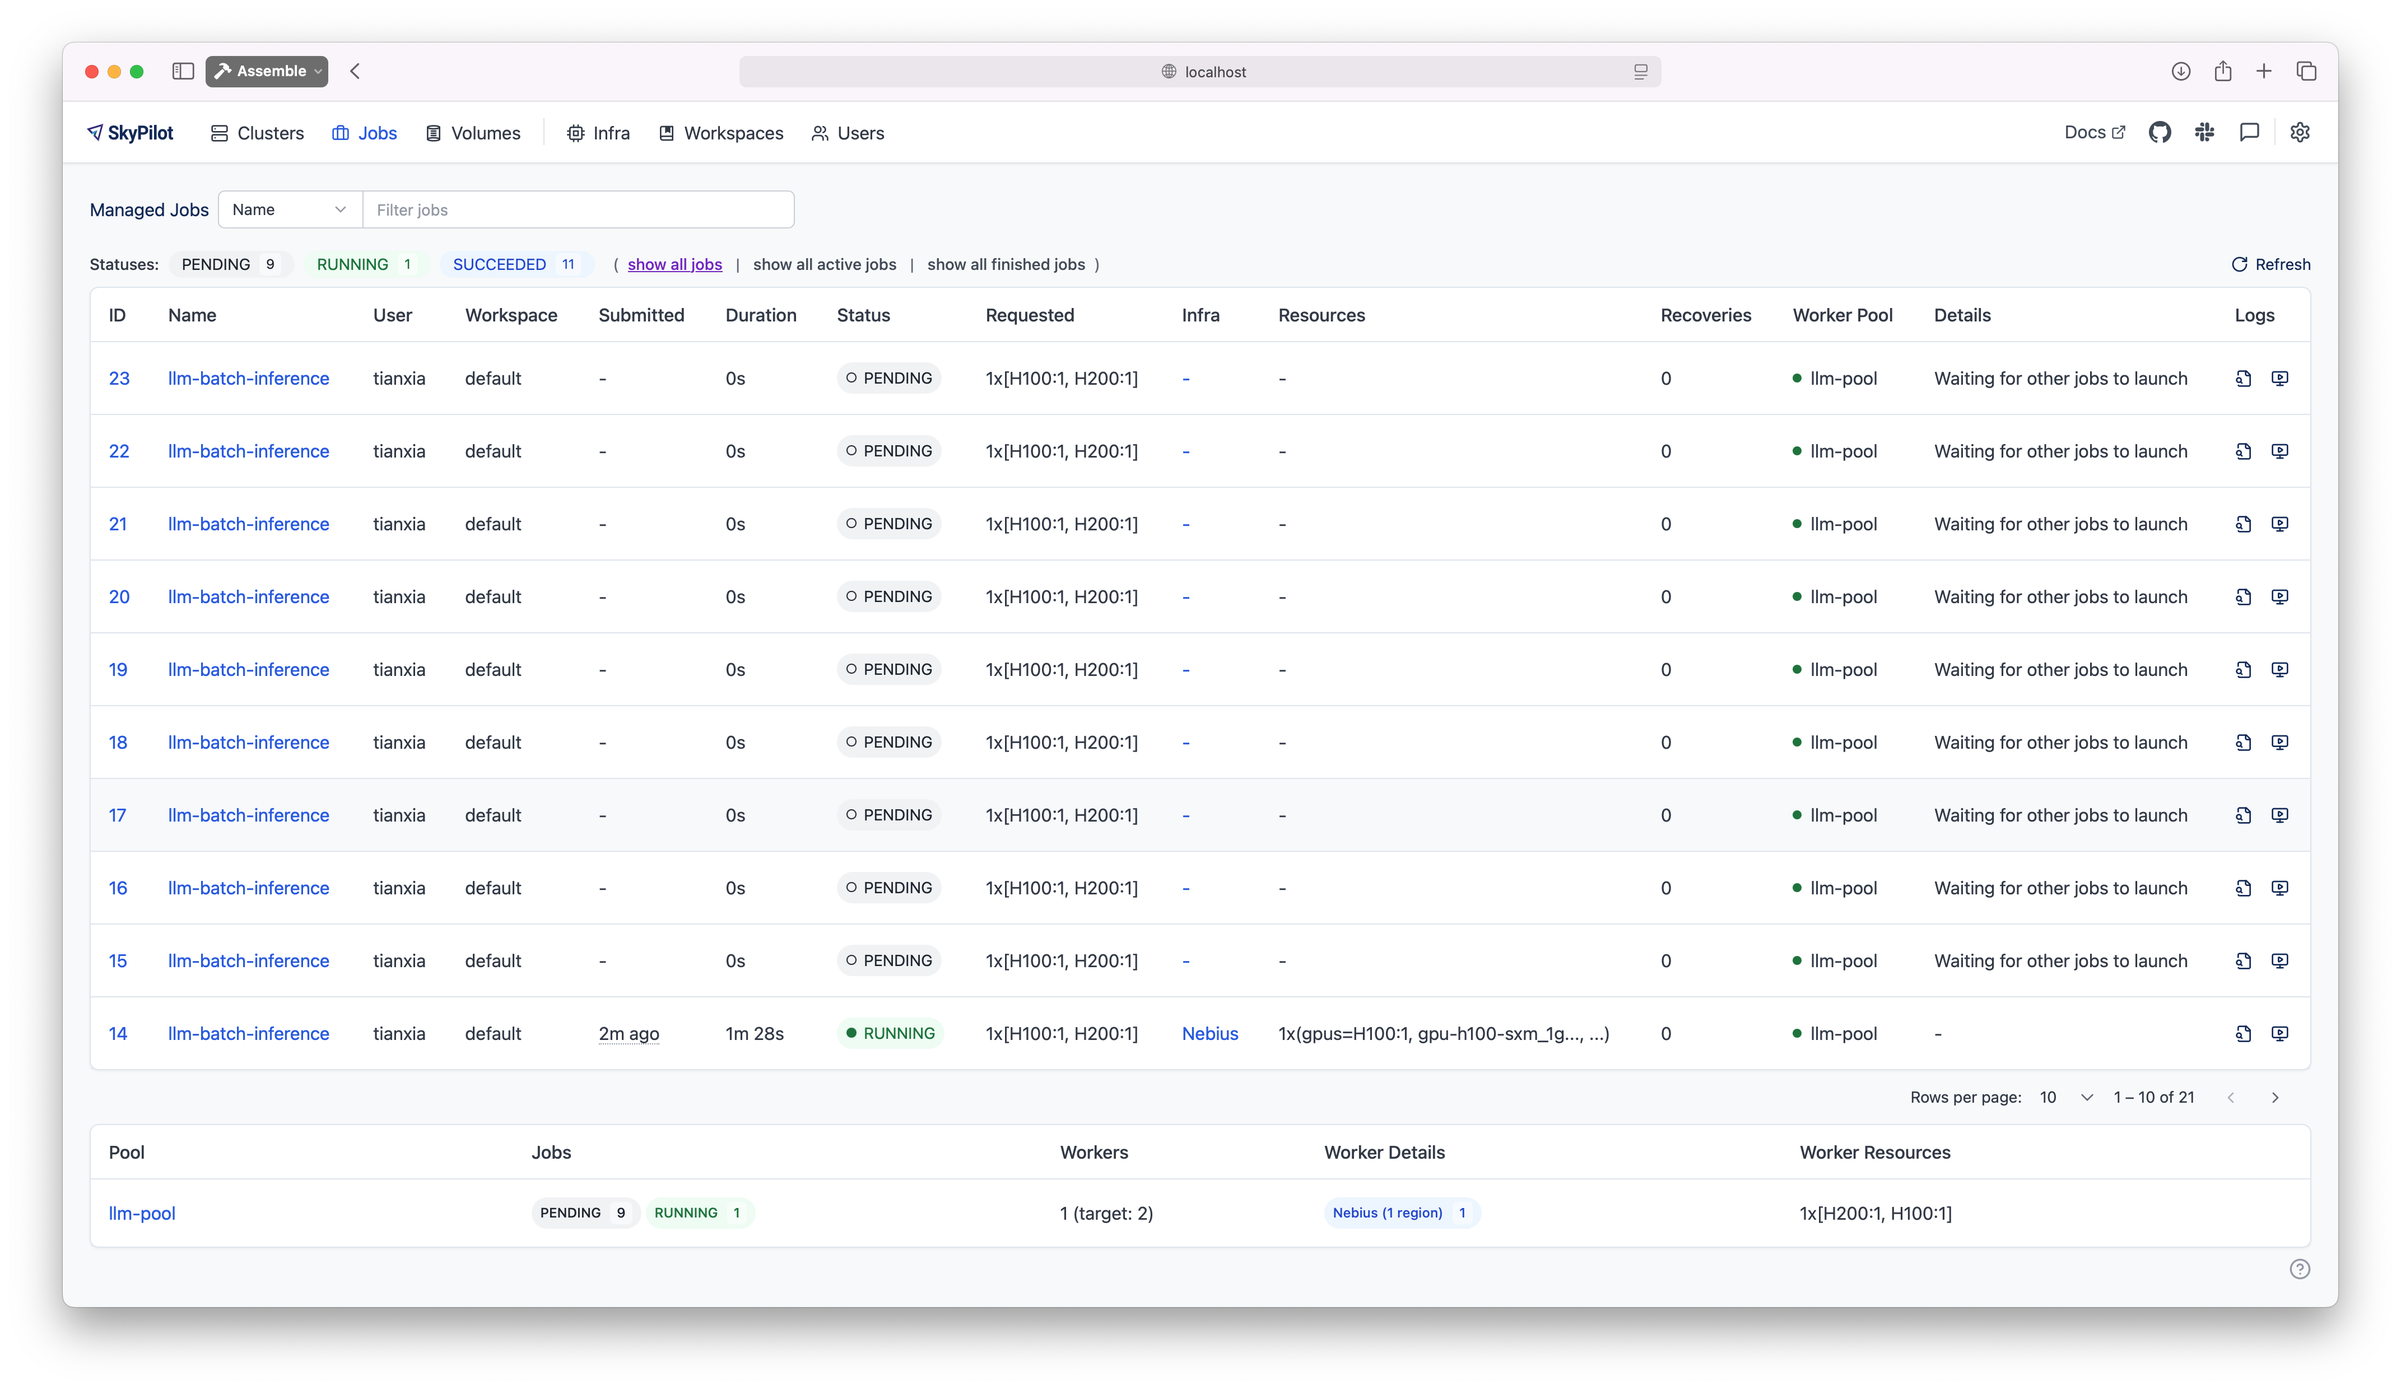
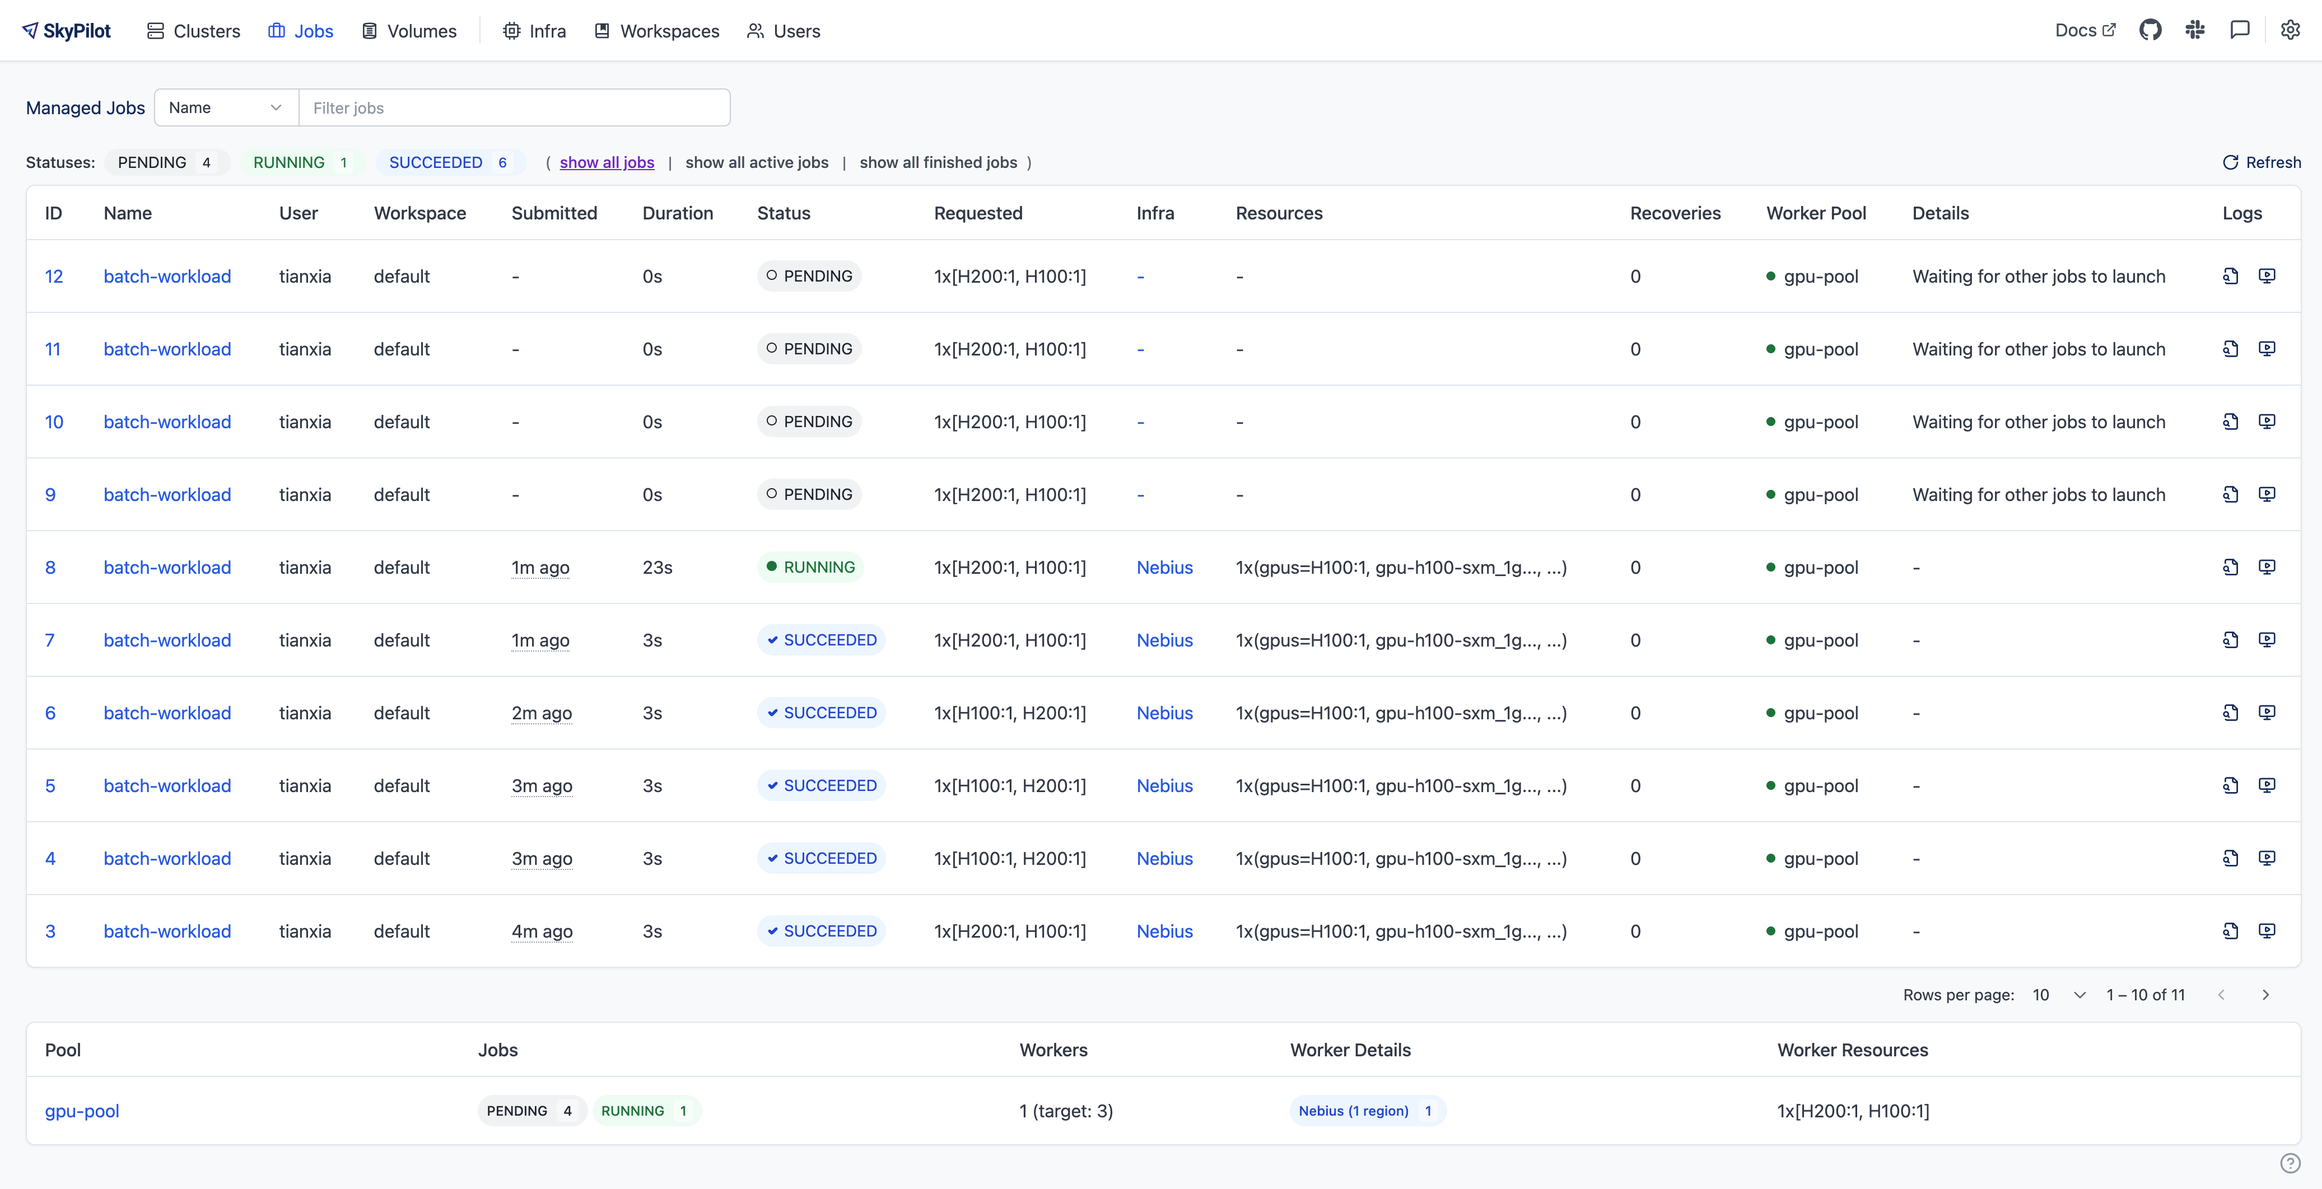
upd docs

diff --git a/docs/source/examples/managed-jobs.rst b/docs/source/examples/managed-jobs.rst
@@ -467,121 +467,179 @@ Workers in the pool are **reused** across job submissions, avoiding repeated set
 
   To get started with pools, use the nightly build of SkyPilot: ``pip install -U skypilot-nightly``
 
-Quick tour: LLM batch inference
-~~~~~~~~~~~~~~~~~~~~~~~~~~~~~~~
+Create a pool
+~~~~~~~~~~~~~
 
-Here is a simple example of using a pool for LLM batch inference:
+Here is a simple example of creating a pool:
 
 .. code-block:: yaml
-  :emphasize-lines: 2-3
+  :emphasize-lines: 2-4
 
   # pool.yaml
   pool:
-    workers: 2
+    # Specify the number of workers in the pool.
+    workers: 3
 
   resources:
+    # Specify the resources for each worker, e.g.
     accelerators: {H100:1, H200:1}
-    disk_size: 512
-
-  envs:
-    MODEL_NAME: openai/gpt-oss-20b
 
   setup: |
-    sudo apt-get update
-    sudo apt-get install -y python3-dev build-essential
-    uv venv --python 3.12 --seed
-    source .venv/bin/activate
-    uv pip install --pre vllm==0.10.1+gptoss \
-      --extra-index-url https://wheels.vllm.ai/gpt-oss/ \
-      --extra-index-url https://download.pytorch.org/whl/nightly/cu128 \
-      --index-strategy unsafe-best-match
-    uv pip install hf_xet openai==1.99.1
-    hf download $MODEL_NAME
+    # Setup commands for all workers
+    echo "Setup complete!"
 
-  run: |
-    # Use the job rank environment variable to determine job partition.
-    echo "Job rank: $SKYPILOT_JOB_RANK"
-    source .venv/bin/activate
-    rm openai_example_batch.jsonl || true
-    wget https://raw.githubusercontent.com/vllm-project/vllm/main/examples/offline_inference/openai_batch/openai_example_batch.jsonl
-    sed -i "s|meta-llama/Meta-Llama-3-8B-Instruct|$MODEL_NAME|g" openai_example_batch.jsonl
-    echo "========== Prompts =========="
-    cat openai_example_batch.jsonl
-    echo "============================="
-    python -m vllm.entrypoints.openai.run_batch \
-      -i openai_example_batch.jsonl \
-      -o results.jsonl \
-      --model $MODEL_NAME
-    echo "========== Results =========="
-    cat results.jsonl
-    echo "============================="
+Noticed that the :code:`pool` section is the only difference from a normal SkyPilot YAML.  
+To specify the number of workers in the pool, use the :code:`workers` field under :code:`pool`.  
+When creating a pool, the :code:`run` section is ignored.
 
-Noticed that the :code:`pool` section is the only difference from a normal SkyPilot YAML.
-When creating a pool, the :code:`run` section is ignored; however, we still included it in the YAML, as we will reuse the same YAML file when submitting jobs.
 
-To create a pool with 2 workers, use the following command:
+To create a pool, use the following command:
 
 .. code-block:: console
 
-  $ sky jobs pool apply --pool llm-pool pool.yaml
+  $ sky jobs pool apply --pool gpu-pool pool.yaml
   YAML to run: pool.yaml
   Pool spec:
-  Worker policy:  Fixed-size (2 workers)
+  Worker policy:  Fixed-size (3 workers)
 
   Each pool worker will use the following resources (estimated):
   Considered resources (1 node):
   -------------------------------------------------------------------------------------------------------
-  INFRA                 INSTANCE                         vCPUs   Mem(GB)   GPUS     COST ($)   CHOSEN 
+  INFRA                 INSTANCE                         vCPUs   Mem(GB)   GPUS     COST ($)   CHOSEN   
   -------------------------------------------------------------------------------------------------------
-  Nebius (eu-north1)    gpu-h100-sxm_1gpu-16vcpu-200gb   16      200       H100:1   2.95          ✔   
-  Nebius (eu-north1)    gpu-h200-sxm_1gpu-16vcpu-200gb   16      200       H200:1   3.50              
-  GCP (us-central1-a)   a3-highgpu-1g                    26      234       H100:1   5.38              
+  Nebius (eu-north1)    gpu-h100-sxm_1gpu-16vcpu-200gb   16      200       H100:1   2.95          ✔     
+  Nebius (eu-north1)    gpu-h200-sxm_1gpu-16vcpu-200gb   16      200       H200:1   3.50                
+  GCP (us-central1-a)   a3-highgpu-1g                    26      234       H100:1   5.38                
   -------------------------------------------------------------------------------------------------------
-  Applying config to pool 'llm-pool'. Proceed? [Y/n]: 
-  The `run` section will be ignored for pool.
-  Launching controller for 'llm-pool'...
+  Applying config to pool 'gpu-pool'. Proceed? [Y/n]: 
+  Launching controller for 'gpu-pool'...
   ...
-  ⚙ Job submitted, ID: 13
+  ⚙ Job submitted, ID: 1
 
-  Pool name: llm-pool
+  Pool name: gpu-pool
   📋 Useful Commands
-  ├── To submit jobs to the pool: sky jobs launch --pool llm-pool <yaml_file>
-  ├── To submit multiple jobs:    sky jobs launch --pool llm-pool --num-jobs 10 <yaml_file>
-  ├── To check the pool status:   sky jobs pool status llm-pool
-  └── To terminate the pool:      sky jobs pool down llm-pool
+  ├── To submit jobs to the pool: sky jobs launch --pool gpu-pool <yaml_file>
+  ├── To submit multiple jobs:    sky jobs launch --pool gpu-pool --num-jobs 10 <yaml_file>
+  ├── To check the pool status:   sky jobs pool status gpu-pool
+  └── To terminate the pool:      sky jobs pool down gpu-pool
 
-  ✓ Successfully created pool 'llm-pool'.
+  ✓ Successfully created pool 'gpu-pool'.
 
 The pool will be created in the background. You can submit jobs to this pool immediately; jobs will remain in the PENDING state until the worker cluster is ready, and will start automatically once workers are available.
 
-To submit jobs to the pool, use the following command:
+Submit jobs to a pool
+~~~~~~~~~~~~~~~~~~~~~
+
+To submit jobs to the pool, create a workload YAML file:
+
+.. code-block:: yaml
+
+  # workload.yaml
+  name: simple-workload
+
+  # Specify the resources requirements for the job.
+  # This should be the same as the resources configuration in the pool YAML.
+  resources:
+    accelerators: {H100:1, H200:1}
+
+  run: |
+    nvidia-smi
+
+Notice that the :code:`resources` specified in the job YAML should match those used in the pool YAML. Then, use the following command to submit jobs to the pool:
 
 .. code-block:: console
 
-  $ sky jobs launch --pool llm-pool --num-jobs 10 pool.yaml -n llm-batch-inference
-  YAML to run: pool.yaml
-  Submitting to pool 'llm-pool' with 10 jobs.
-  setup/file_mounts/storage_mounts will be ignored when submit jobs to pool. To update a pool, please use `sky jobs pool apply llm-pool new-pool.yaml`. 
-  Managed job 'llm-batch-inference' will be launched on (estimated):
-  Use resources from pool 'llm-pool': 1x[H200:1, H100:1].
-  Launching 10 managed jobs 'llm-batch-inference'. Proceed? [Y/n]: 
-  Launching managed job 'llm-batch-inference' (rank: 0) from jobs controller...
+  $ sky jobs launch --pool gpu-pool workload.yaml
+  YAML to run: workload.yaml
+  Submitting to pool 'gpu-pool' with 1 job.
+  Managed job 'simple-workload' will be launched on (estimated):
+  Use resources from pool 'gpu-pool': 1x[H200:1, H100:1].
+  Launching a managed job 'simple-workload'. Proceed? [Y/n]: Y
+  Launching managed job 'simple-workload' (rank: 0) from jobs controller...
   ...
-  Jobs submitted with IDs: 14,15,16,17,18,19,20,21,22,23.
+  ⚙ Job submitted, ID: 2
+  ├── Waiting for task resources on 1 node.
+  └── Job started. Streaming logs... (Ctrl-C to exit log streaming; job will not be killed)
+  (simple-workload, pid=4150) Thu Aug 14 18:49:05 2025       
+  (simple-workload, pid=4150) +-----------------------------------------------------------------------------------------+
+  (simple-workload, pid=4150) | NVIDIA-SMI 570.172.08             Driver Version: 570.172.08     CUDA Version: 12.8     |
+  (simple-workload, pid=4150) |-----------------------------------------+------------------------+----------------------+
+  (simple-workload, pid=4150) | GPU  Name                 Persistence-M | Bus-Id          Disp.A | Volatile Uncorr. ECC |
+  (simple-workload, pid=4150) | Fan  Temp   Perf          Pwr:Usage/Cap |           Memory-Usage | GPU-Util  Compute M. |
+  (simple-workload, pid=4150) |                                         |                        |               MIG M. |
+  (simple-workload, pid=4150) |=========================================+========================+======================|
+  (simple-workload, pid=4150) |   0  NVIDIA H100 80GB HBM3          On  |   00000000:0F:00.0 Off |                    0 |
+  (simple-workload, pid=4150) | N/A   29C    P0             69W /  700W |       0MiB /  81559MiB |      0%      Default |
+  (simple-workload, pid=4150) |                                         |                        |             Disabled |
+  (simple-workload, pid=4150) +-----------------------------------------+------------------------+----------------------+
+  (simple-workload, pid=4150)                                                                                          
+  (simple-workload, pid=4150) +-----------------------------------------------------------------------------------------+
+  (simple-workload, pid=4150) | Processes:                                                                              |
+  (simple-workload, pid=4150) |  GPU   GI   CI              PID   Type   Process name                        GPU Memory |
+  (simple-workload, pid=4150) |        ID   ID                                                               Usage      |
+  (simple-workload, pid=4150) |=========================================================================================|
+  (simple-workload, pid=4150) |  No running processes found                                                             |
+  (simple-workload, pid=4150) +-----------------------------------------------------------------------------------------+
+  ✓ Job finished (status: SUCCEEDED).
+  ✓ Managed job finished: 2 (status: SUCCEEDED).
+
+The job will be launched on one of the available workers in the pool.  
+Currently, each worker is **exclusively occupied** by a single managed job at a time.  
+Support for running multiple jobs concurrently on the same worker will be added in the future.
+
+Pools support a :code:`--num-jobs` flag to conveniently submit multiple jobs at once.  
+Each job will be assigned a unique environment variable :code:`$SKYPILOT_JOB_RANK`, which can be used to determine the job partition.
+
+For example, if you have 1000 prompts to evaluate, each job can process prompts with sequence numbers  
+:code:`$SKYPILOT_JOB_RANK * 100` to :code:`($SKYPILOT_JOB_RANK + 1) * 100`.
+
+Here is a simple example:
+
+.. code-block:: yaml
+
+  # batch-workload.yaml
+  name: batch-workload
+
+  resources:
+    accelerators: {H100:1, H200:1}
+
+  run: |
+    echo "Job rank: $SKYPILOT_JOB_RANK"
+    echo "Processing prompts from $(($SKYPILOT_JOB_RANK * 100)) to $((($SKYPILOT_JOB_RANK + 1) * 100))"
+    # Actual business logic here...
+    echo "Job $SKYPILOT_JOB_RANK finished"
+
+Use the following command to submit them to the pool:
+
+.. code-block:: console
+
+  $ sky jobs launch --pool gpu-pool --num-jobs 10 batch-workload.yaml
+  YAML to run: batch-workload.yaml
+  Submitting to pool 'gpu-pool' with 10 jobs.
+  Managed job 'batch-workload' will be launched on (estimated):
+  Use resources from pool 'gpu-pool': 1x[H200:1, H100:1].
+  Launching 10 managed jobs 'batch-workload'. Proceed? [Y/n]: Y
+  Launching managed job 'batch-workload' (rank: 0) from jobs controller...
+  ...
+  Launching managed job 'batch-workload' (rank: 9) from jobs controller...
+  Jobs submitted with IDs: 3,4,5,6,7,8,9,10,11,12.
   📋 Useful Commands
   ├── To stream job logs:                 sky jobs logs <job-id>
   ├── To stream controller logs:          sky jobs logs --controller <job-id>
-  └── To cancel all jobs on the pool:     sky jobs cancel --pool llm-pool
+  └── To cancel all jobs on the pool:     sky jobs cancel --pool gpu-pool
 
-Each job will have a unique environment variable :code:`$SKYPILOT_JOB_RANK` to determine the job partition.  
-For example, if you have 1000 prompts to evaluate, each job can process prompts with sequence numbers  
-:code:`$SKYPILOT_JOB_RANK * 100` to :code:`($SKYPILOT_JOB_RANK + 1) * 100`.
+All of the jobs will be launched in parallel.  
+Note that the maximum concurrency is limited by the number of workers in the pool.  
+To enable more jobs to run simultaneously, increase the number of workers when creating the pool.
 
 There are several things to note when submitting to a pool:
 
 - Any :code:`setup` commands or file mounts in the YAML are ignored.
-- The :code:`resources` requirements are still respected.
+- The :code:`resources` requirements are still respected. This should be the same as the ones used in the pool YAML.
 - The :code:`run` command is executed for the job.
+
+Monitoring job status
+~~~~~~~~~~~~~~~~~~~~~
 
 You can use the job page in the dashboard to monitor the job status.
 
@@ -589,10 +647,10 @@ You can use the job page in the dashboard to monitor the job status.
   :width: 100%
   :align: center
 
-In this example, we submit 10 jobs with IDs from 14 to 23.  
+In this example, we submit 10 jobs with IDs from 3 to 12.  
 Only one worker is currently ready due to a resource availability issue, but the pool continues to request additional workers in the background.  
 Since each job requires **the entire worker cluster**, only number of workers jobs can run at a time; in this case, 1 job can run at a time.
-As a result, one job is running on the available worker, while the remaining nine are in the PENDING state, waiting for the previous job to finish.
+As a result, except for the 5 completed jobs, 1 job is running on the available worker, while the remaining 4 are in the PENDING state, waiting for the previous job to finish.
 
 Clicking on the pool name will show detailed information about the pool, including its resource specification, status of each worker node, and any job currently running on it:
 
@@ -601,19 +659,50 @@ Clicking on the pool name will show detailed information about the pool, includi
   :align: center
 
 In this example, one worker is ready in Nebius, and another is currently provisioning.  
-The ready worker is running the managed job with ID 16.
-The **Worker Details** section displays the current resource summary of the pool,
-while the **Jobs** section shows a live snapshot of all jobs associated with this pool, including their statuses and job IDs.
+The ready worker is running the managed job with ID 10.
+The **Worker Details** section displays the current resource summary of the pool, while the **Jobs** section shows a live snapshot of all jobs associated with this pool, including their statuses and job IDs.
 
-You can use :code:`sky jobs cancel --pool llm-pool` to cancel all jobs currently running or pending on the pool.
+.. tip::
+
+  You can use :code:`sky jobs cancel --pool gpu-pool` to cancel all jobs currently running or pending on the pool.
+
+Update a pool
+~~~~~~~~~~~~~
+
+You can update the pool configuration with the following command:
+
+.. code-block:: yaml
+  :emphasize-lines: 3
+
+  # new-pool.yaml
+  pool:
+    workers: 10
+
+  resources:
+    accelerators: {H100:1, H200:1}
+
+  setup: |
+    # Setup commands for all workers
+    echo "Setup complete!"
+
+.. code-block:: console
+
+  $ sky jobs pool apply --pool gpu-pool new-pool.yaml
+
+The :code:`sky jobs pool apply` command can be used to update the configuration of an existing pool with the same name.  
+In this example, it updates the number of workers in the pool to 10.  
+If no such pool exists, it will create a new one—this is equivalent to the behavior demonstrated in the previous example.
+
+Terminate a pool
+~~~~~~~~~~~~~~~~
 
 After usage, the pool can be terminated with the following command:
 
 .. code-block:: console
 
-  $ sky jobs pool down llm-pool
-  Terminating pool(s) 'llm-pool'. Proceed? [Y/n]: 
-  Pool 'llm-pool' is scheduled to be terminated.
+  $ sky jobs pool down gpu-pool
+  Terminating pool(s) 'gpu-pool'. Proceed? [Y/n]: 
+  Pool 'gpu-pool' is scheduled to be terminated.
 
 The pool will be torn down in the background, and any remaining resources will be automatically cleaned up.
 
